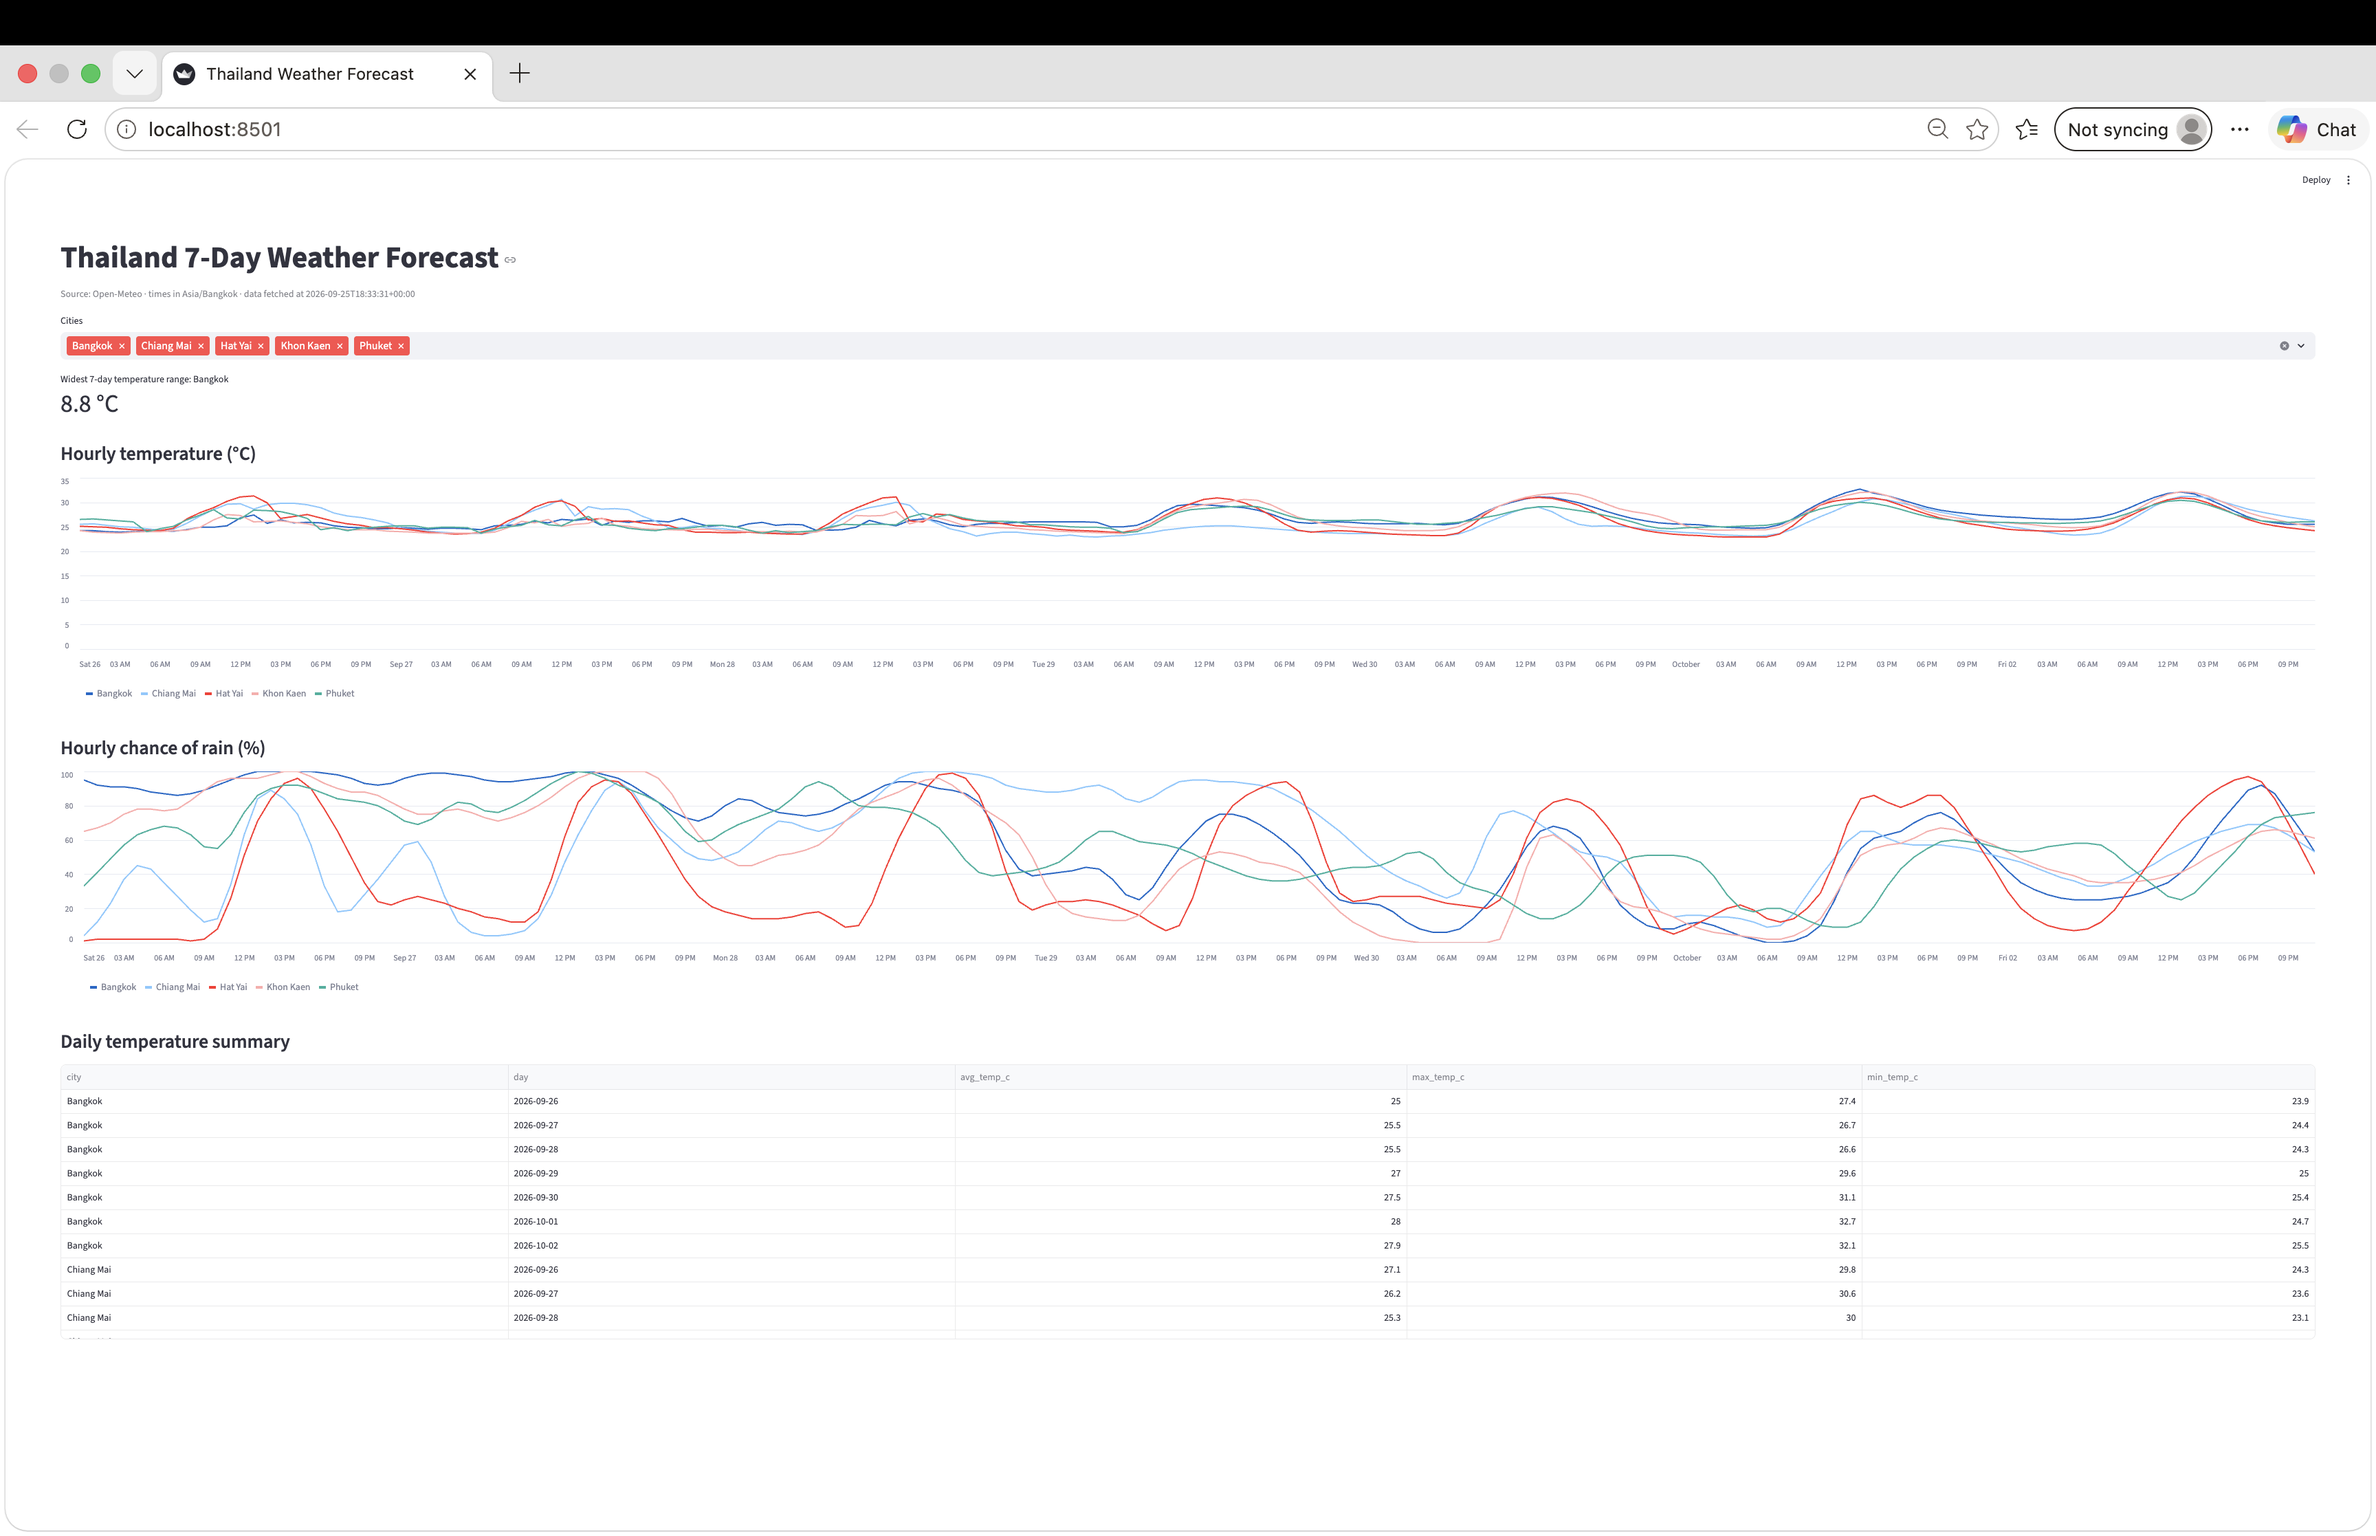
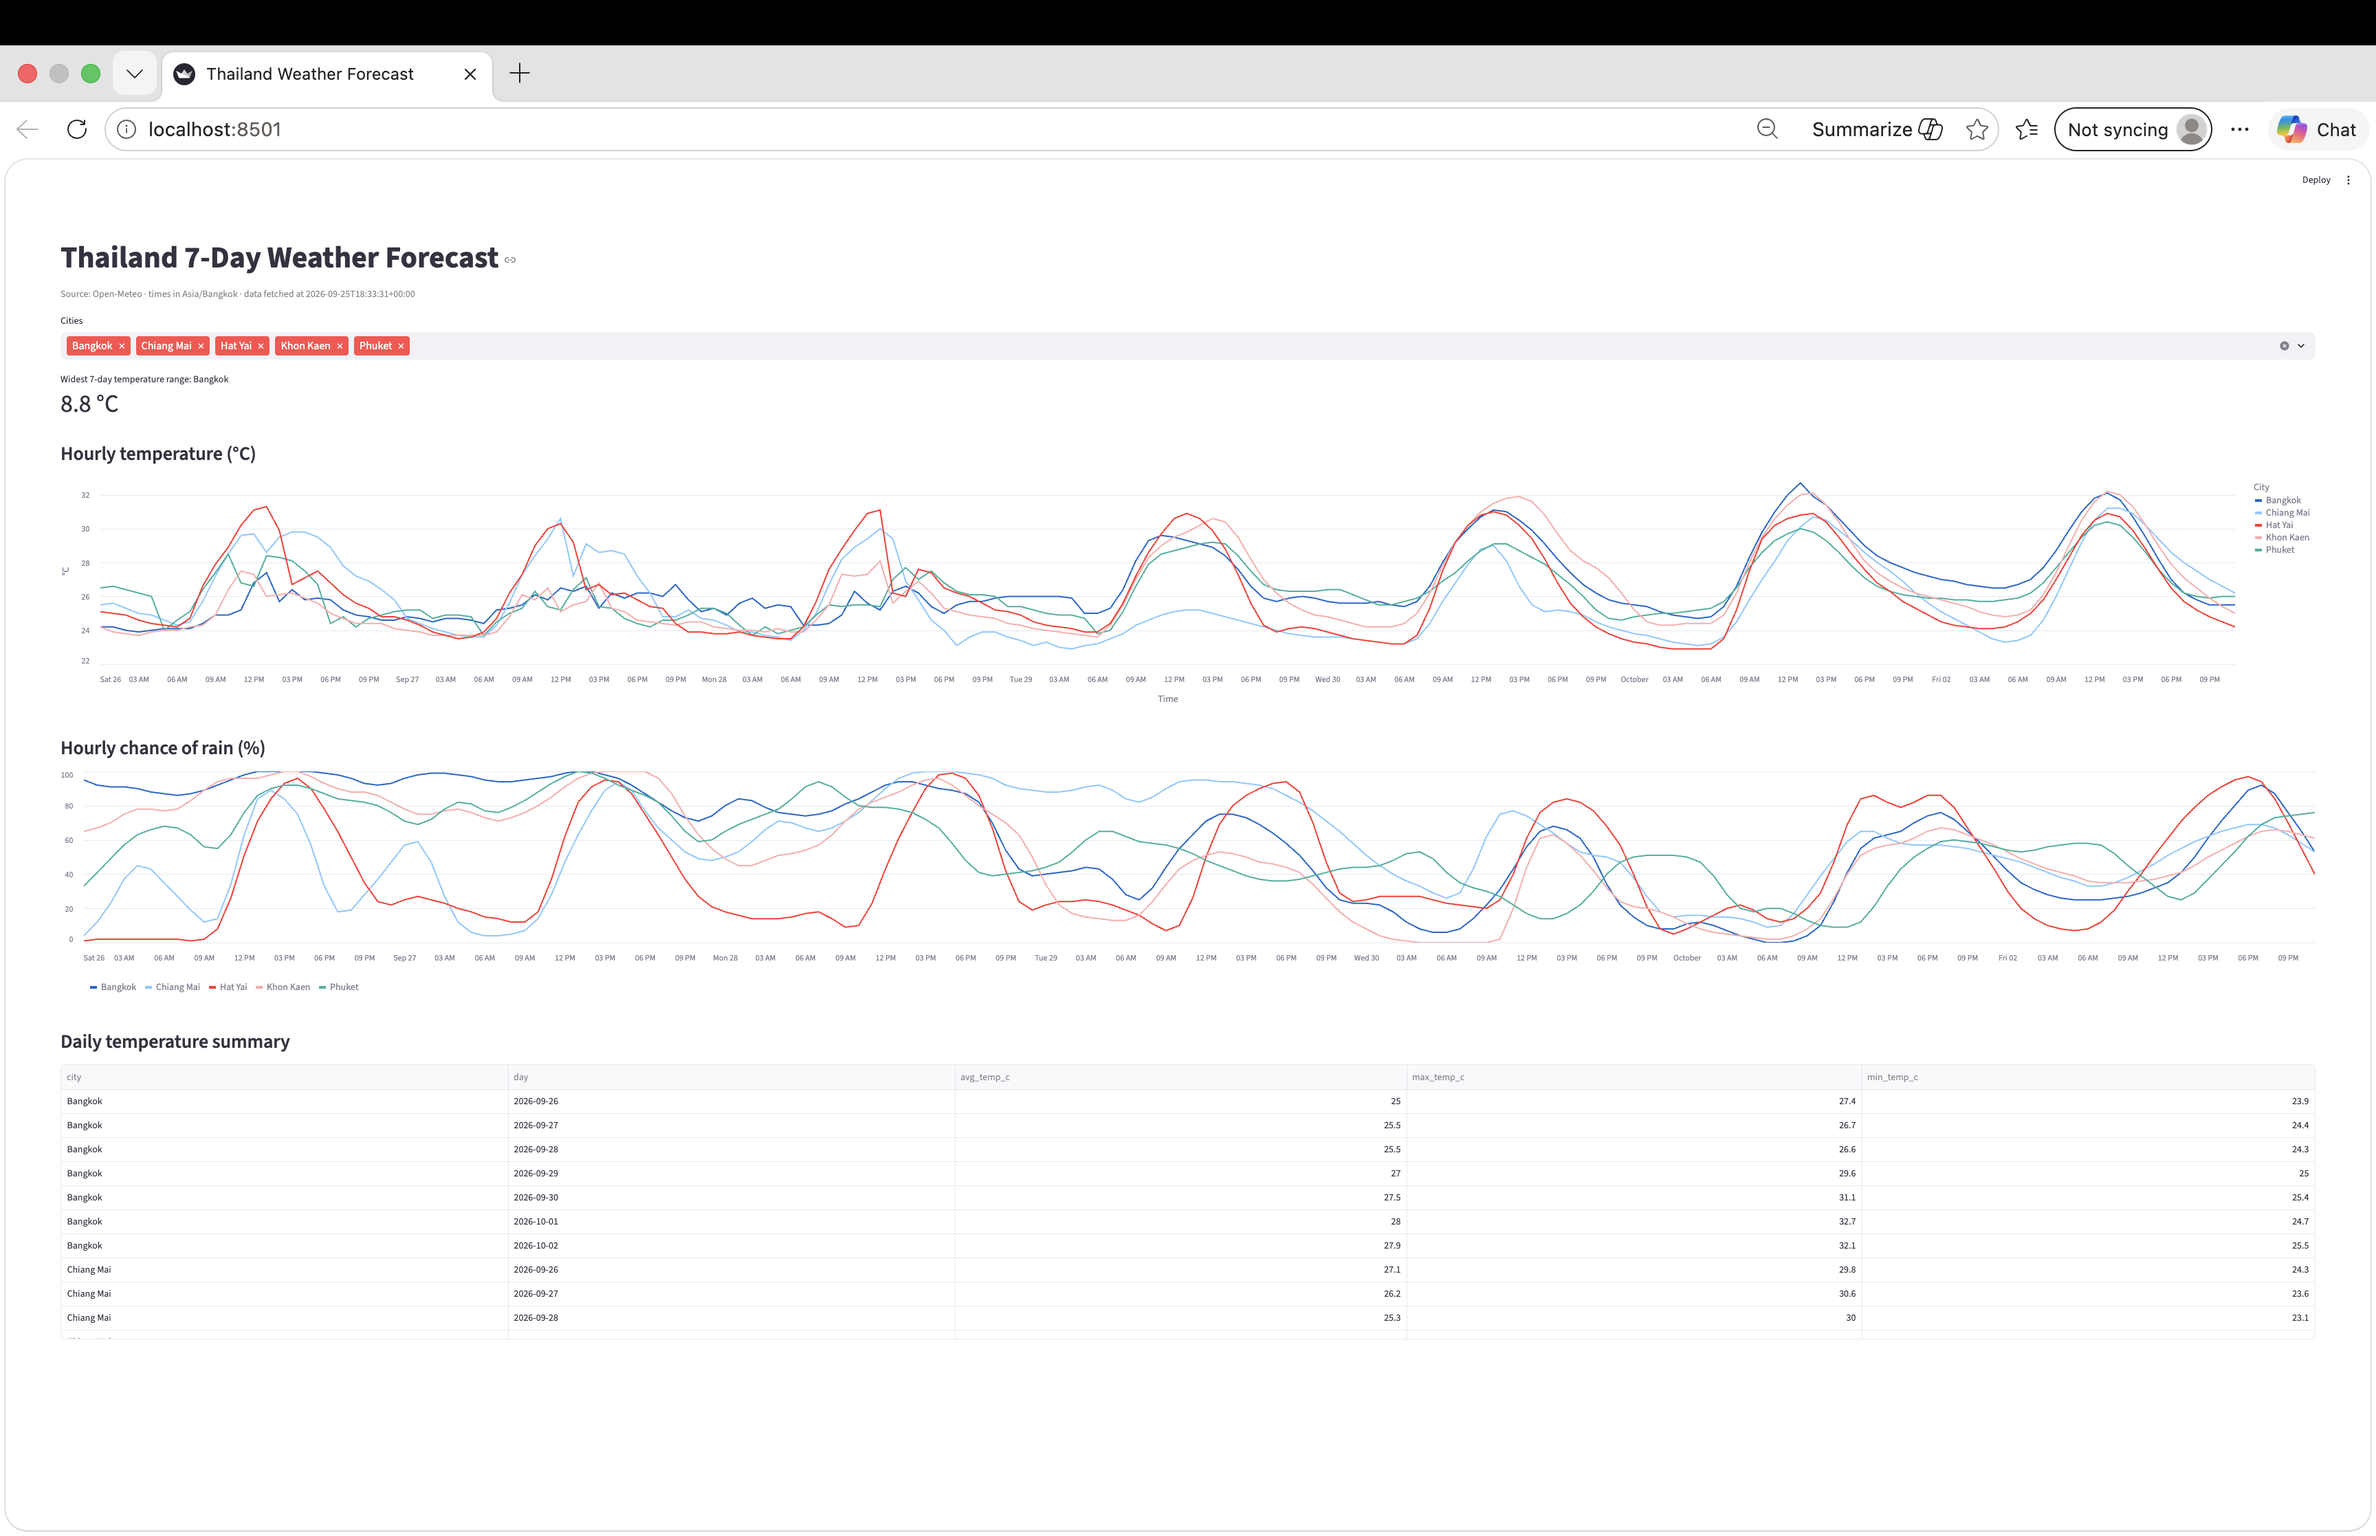
Add Streamlit dashboard reading from SQLite

diff --git a/app.py b/app.py
@@ -1,6 +1,7 @@
 import sqlite3
 from pathlib import Path
 
+import altair as alt
 import pandas as pd
 import streamlit as st
 
@@ -55,7 +56,16 @@ st.metric(
 )
 
 st.subheader("Hourly temperature (°C)")
-st.line_chart(filtered.pivot(index="forecast_time", columns="city", values="temperature_c"))
+temp_chart = (
+    alt.Chart(filtered)
+    .mark_line()
+    .encode(
+        x=alt.X("forecast_time:T", title="Time"),
+        y=alt.Y("temperature_c:Q", title="°C", scale=alt.Scale(zero=False)),
+        color=alt.Color("city:N", title="City"),
+    )
+)
+st.altair_chart(temp_chart)
 
 st.subheader("Hourly chance of rain (%)")
 st.line_chart(
